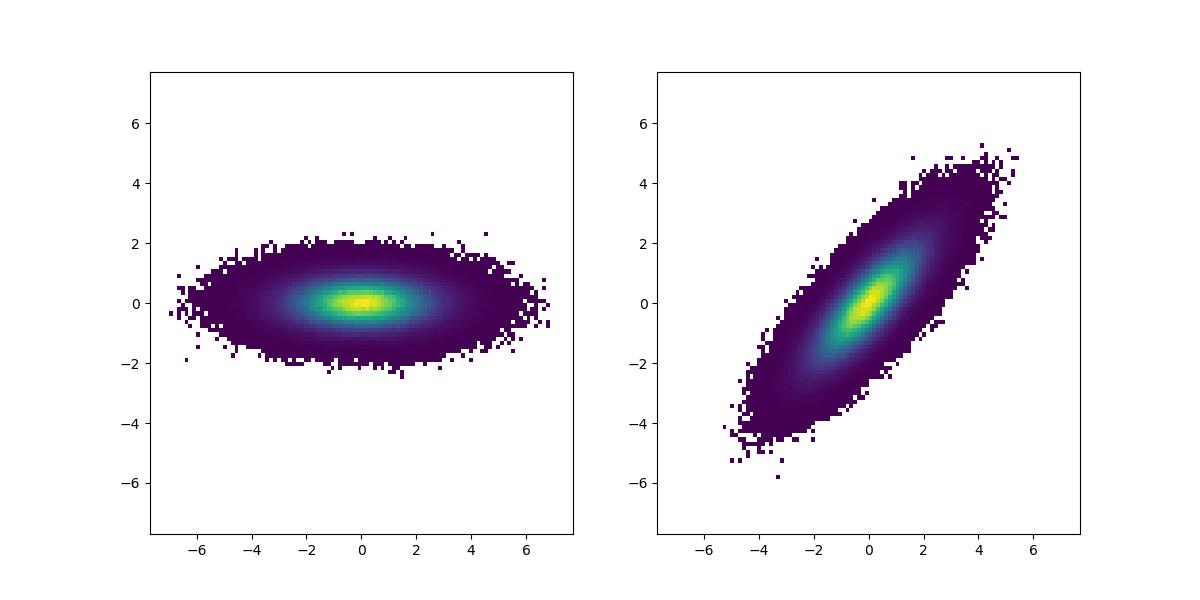
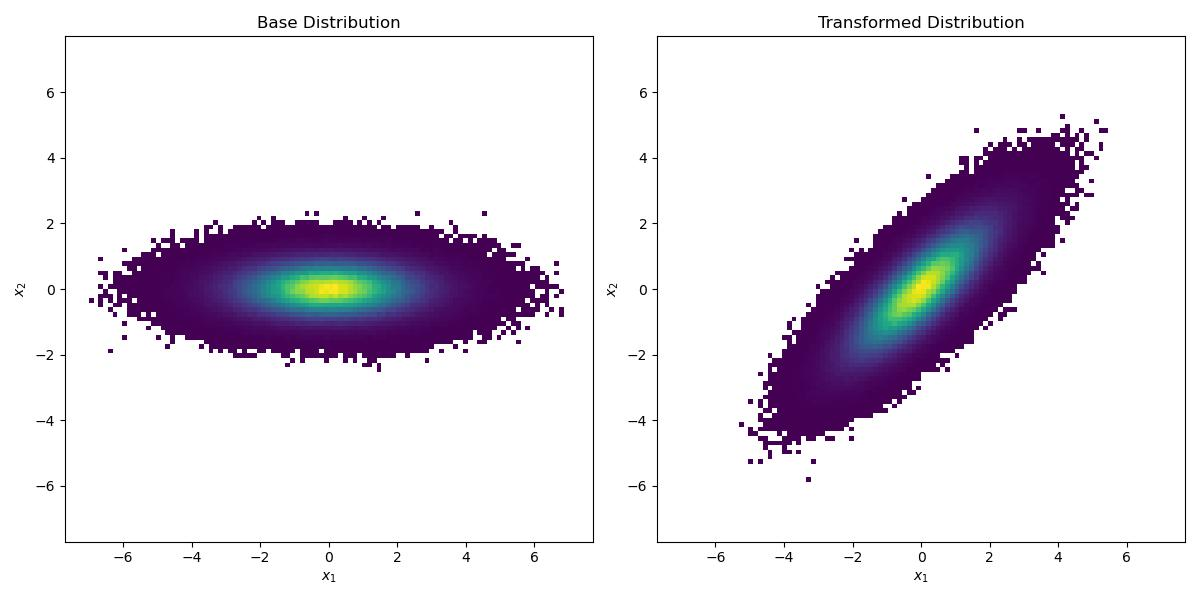
added tex equation

diff --git a/src/rotation_flow.py b/src/rotation_flow.py
@@ -49,9 +49,15 @@ Tx = OrthogonalProjection2D(theta=jnp.pi / 4).forward(x)
 
 binrange = jnp.array([[-7, 7], [-7, 7]])
 cm = plt.get_cmap("viridis")
-f, axes = plt.subplots(1, 2, figsize=(12, 6))
+fig, axes = plt.subplots(1, 2, figsize=(12, 6))
 sns.histplot(x=x[:, 0], y=x[:, 1], bins=100, cmap=cm, ax=axes[0], binrange=binrange)
 sns.histplot(x=Tx[:, 0], y=Tx[:, 1], bins=100, cmap=cm, ax=axes[1], binrange=binrange)
+axes[0].set_title("Base Distribution")
+axes[1].set_title("Transformed Distribution")
+for ax in axes:
+    ax.set_xlabel(r"$x_{1}$")
+    ax.set_ylabel(r"$x_{2}$")
+fig.tight_layout()
 plt.savefig("plots/rotation/rotation1.jpg")
 plt.close()
 
@@ -118,10 +124,14 @@ Tx = flow_dist.sample(seed=random.PRNGKey(23), sample_shape=(1000000,))
 
 binrange = jnp.array([[-13, 13], [-7, 13]])
 cm = plt.get_cmap("viridis")
-f, axes = plt.subplots(1, 2, figsize=(12, 6))
+fig, axes = plt.subplots(1, 2, figsize=(12, 6))
 sns.histplot(x=x[:, 0], y=x[:, 1], bins=100, cmap=cm, ax=axes[0], binrange=binrange)
 sns.histplot(x=Tx[:, 0], y=Tx[:, 1], bins=100, cmap=cm, ax=axes[1], binrange=binrange)
+axes[0].set_title("True")
+axes[1].set_title("Learned")
+fig.tight_layout()
 plt.savefig("plots/rotation/rotation2.jpg")
+
 plt.close()
 
 # TODO: learn parameters of rotation with simple jax NN

diff --git a/README.md b/README.md
@@ -1,14 +1,48 @@
 # Normalizing Flows
 
-% # TODO: add table of content
+![Real NVP Example](./plots/banana/real_nvp_banana.gif)
+Example of a normalizing flow (Real NVP) learning the distribution on the left.
+
 ## Intro
 
-% # TODO: short description of normalizing flows
-![Real NVP Example](./plots/banana/real_nvp_banana.gif)
+> Normalizing flows operate by pushing a simple density through a series of transformations to produce a richer, potentially more multi-modal distribution.
+> -- <cite>Papamakarios et al. 2021 </cite>
 
-## Custom Bijector with distrax
+These transformations $T$ have to be bijective, differentiable with a differentible inverse $T^{-1}$ and a functional determinant $det(T^{-1})\neq 0$, in short T is a diffeomorphism (Note that in the NF literature the terms `Bijector` and `diffeomorphism` are used interchangably).
 
-% # TODO: add part about custom bijector and training
+## Building a custom Bijector with distrax
+
+We start with a linear map $T$ given by:
+
+$T:\mathbb{R^{2}} \rightarrow \mathbb{R^{2}}, \left(\begin{array}{c}
+ x_{1}\\
+ x_{2}
+ \end{array}\right) \mapsto \left(\begin{array}{cc}
+ cos(\theta) &-sin(\theta)\\
+ sin(\theta) & cos(\theta)
+ \end{array}\right) \left(\begin{array}{c}
+ x_{1}\\
+ x_{2}
+ \end{array}\right)
+$
+
+with inverse $T^{-1}$ :
+
+$T^{-1}:\mathbb{R^{2}} \rightarrow \mathbb{R^{2}}, \left(\begin{array}{c}
+ x_{1}\\
+ x_{2}
+ \end{array}\right) \mapsto \left(\begin{array}{cc}
+ cos(\theta) &sin(\theta)\\
+ -sin(\theta) & cos(\theta)
+ \end{array}\right) \left(\begin{array}{c}
+ x_{1}\\
+ x_{2}
+ \end{array}\right)
+$
+
+and functional determinant $det( T^{'} )=sin^{2}(\theta)+cos^{2}(\theta)=1$.
+
+In [distrax](https://github.com/deepmind/distrax) we can construct the above map by subclassing the `Bijector` class.
 
 ```python
 import distrax
@@ -41,14 +75,24 @@ class OrthogonalProjection2D(distrax.Bijector):
         return y, logdet
 ```
 
-Chaining the above bijector with shift, scale and log yields the following transformed distribution.
-![Chained Bijectorr](./plots/MVN_3D_rotation.jpg)
+Transforming an independent multivariate Gaussian distribution $X$ with the `OrthogonalProjection2D` for $\theta =\frac{\pi}{4}= 45^{\circ}$ yields a multivariate Gaussian distribution $Y$ which is no longer independent, as can be seen below:
+![Rotation Bijector](./plots/rotation/rotation1.jpg)
+Since the above bijector is linear we already knew that $cov(Y)=cov(TX)=T\Sigma T^{'}$ where $\Sigma=cov(X)$.
 
-## MAF & Real NVP
+In the image below we chained shift, scale and the Orthogonal Projector.
+On the left hand side the true distribution is depicted and on the right hand side the inferred ditribution using maximum likelihood for the shift parameter $a$, the scale parameter $b$ and the rotation parameter $\theta$:
+![Rotation Bijector 2](./plots/rotation/rotation2.jpg)
 
-% # TODO: text and images about MAF and Real NVP
+## MAF & Real NVP & Glow
 
-![MAF](./plots/banana_samples_maf.jpg)
+### samples from some toy densities (left) and sampels from the inferred distribution (right)
+
+![MAF](./plots/banana/maf_banana.jpg)
+![MAF](./plots/gaussian_blobs/maf_gaussian_blobs.jpg)
+![MAF](./plots/energy1/maf_energy1.jpg)
+![MAF](./plots/energy2/maf_energy2.jpg)
+![MAF](./plots/energy3/maf_energy3.jpg)
+![MAF](./plots/energy4/maf_energy4.jpg)
 
 ## Bernstein Flows
 
@@ -60,8 +104,11 @@ Chaining the above bijector with shift, scale and log yields the following trans
 
 ![Bernstein Flow](./plots/MVN_3D.jpg)
 
+## Multiplicative Normalizing Flows
+
 ## Reference
 
+- [Normalizing Flows for Probabilistic Modeling and Inference](https://arxiv.org/pdf/1912.02762.pdf) George Papamakarios, Eric Nalisnick, Danilo Jimenez Rezende, Shakir Mohamed, Balaji Lakshminarayanan
 - [Deep transformation models: Tackling complex regression problems with neural network based transformation models](https://arxiv.org/pdf/2004.00464.pdf) Beate Sick, Torsten Hothorn, Oliver Dürr
 - [Robust normalizing flows using Bernstein-type polynomials](https://arxiv.org/pdf/2102.03509.pdf) Sameera Ramasinghe, Kasun Fernando, Salman Khan, Nick Barnes
 - [Building custom bijectors with Tensorflow Probability](https://romainlhardy.medium.com/building-custom-bijectors-with-tensorflow-probability-22241cb6a691)
